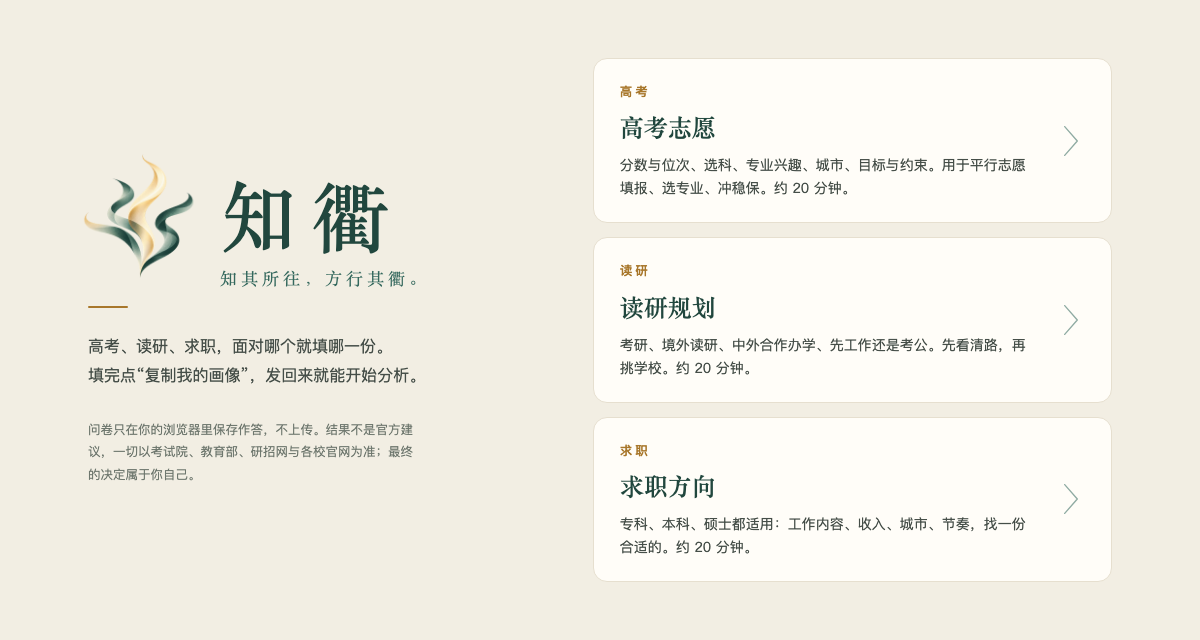
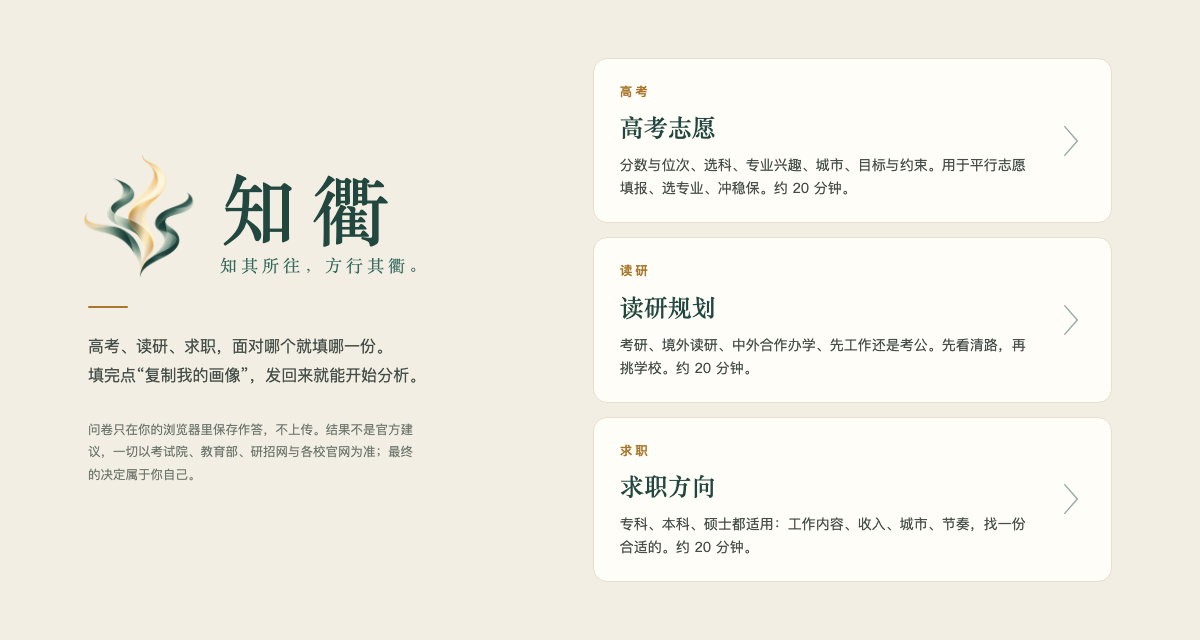
Entry page: smaller downward shift, tighter name-motto gap

Changed region(s): [[0.185, 0.2812, 0.3392, 0.4688]]

diff --git a/assets/questionnaire.css b/assets/questionnaire.css
@@ -160,9 +160,9 @@ textarea{resize:vertical;min-height:84px;}
 .split > .choices{grid-area:choices;}
 .split > .vow{grid-area:vow;align-self:start;}
 .landing .hero{padding:0;overflow:visible;}
-.lockup{display:flex;align-items:center;gap:18px;margin:0 0 19px -10px;}
+.lockup{display:flex;align-items:center;gap:18px;margin:0 0 9px -10px;}
 /* 视觉对齐：logo 墨量偏下、文字块重量集中在上方大字，几何居中时文字显得偏高，整块下移 */
-.wordmark{display:flex;flex-direction:column;gap:12px;position:relative;top:19px;}
+.wordmark{display:flex;flex-direction:column;gap:6px;position:relative;top:9px;}
 .landing .hero-logo{display:block;flex:none;width:124px;height:124px;margin:0;}
 .landing .brand-title{font-size:76px;letter-spacing:16px;line-height:1;margin:0;}
 .landing .motto{font-size:17px;letter-spacing:4px;margin:0;white-space:nowrap;}
@@ -178,8 +178,8 @@ textarea{resize:vertical;min-height:84px;}
 @media (min-width:1600px) and (min-height:900px){
   .landing-wrap{max-width:1360px;}
   .landing .hero-logo{width:148px;height:148px;}
-  .wordmark{top:23px;}
-  .lockup{margin-bottom:23px;}
+  .wordmark{top:11px;gap:8px;}
+  .lockup{margin-bottom:11px;}
   .landing .brand-title{font-size:92px;letter-spacing:20px;}
   .landing .motto{font-size:20px;letter-spacing:5px;}
   .landing .hero .tag{font-size:18px;}
@@ -194,7 +194,7 @@ textarea{resize:vertical;min-height:84px;}
   .split{grid-template-columns:1fr;grid-template-areas:"hero" "choices" "vow";row-gap:28px;}
   .split > .hero,.split > .vow{align-self:auto;}
   .landing .hero{text-align:center;}
-  .lockup{justify-content:center;margin:0 0 19px;}
+  .lockup{justify-content:center;margin:0 0 9px;}
   .brand-rule{margin:22px auto 18px;}
   .wordmark{align-items:flex-start;text-align:left;}
   .landing .vow{margin:20px auto 0;}
@@ -203,10 +203,10 @@ textarea{resize:vertical;min-height:84px;}
   .landing-wrap{padding:40px 16px 32px;}
   .landing .hero-logo{width:76px;height:76px;}
   .lockup{gap:12px;}
-  .wordmark{top:11px;}
-  .lockup{margin-bottom:11px;}
+  .wordmark{top:5px;}
+  .lockup{margin-bottom:5px;}
   .landing .motto{font-size:15px;letter-spacing:3px;}
-  .wordmark{gap:8px;}
+  .wordmark{gap:4px;}
   .landing .brand-title{font-size:46px;letter-spacing:10px;padding-left:0;}
   .landing .hero .tag{font-size:15px;}
   .landing .choice{column-gap:12px;padding:20px 16px 20px 20px;}

diff --git a/gaokao.html b/gaokao.html
@@ -6,7 +6,7 @@
 <title>高考志愿 · 自我盘点</title>
 <script src="https://cdn.jsdelivr.net/npm/lunar-javascript@1.7.7/lunar.js" defer></script>
 <link rel="icon" type="image/png" href="assets/logo-192.png">
-<link rel="stylesheet" href="assets/questionnaire.css?v=20261019o">
+<link rel="stylesheet" href="assets/questionnaire.css?v=20261019p">
 </head>
 <body data-profile-kind="gaokao">
 
@@ -907,8 +907,8 @@
   </div>
 </div>
 
-<script src="assets/profile-recipient.js?v=20261019o"></script>
-<script src="assets/questionnaire.js?v=20261019o"></script>
+<script src="assets/profile-recipient.js?v=20261019p"></script>
+<script src="assets/questionnaire.js?v=20261019p"></script>
 <script>
   function updateBaziPreview(){
     var el=document.getElementById('baziPreview'); if(!el) return;

diff --git a/career.html b/career.html
@@ -6,7 +6,7 @@
 <title>求职 · 自我盘点</title>
 <script src="https://cdn.jsdelivr.net/npm/lunar-javascript@1.7.7/lunar.js" defer></script>
 <link rel="icon" type="image/png" href="assets/logo-192.png">
-<link rel="stylesheet" href="assets/questionnaire.css?v=20261019o">
+<link rel="stylesheet" href="assets/questionnaire.css?v=20261019p">
 </head>
 <body data-profile-kind="career">
 
@@ -818,8 +818,8 @@
   </div>
 </div>
 
-<script src="assets/profile-recipient.js?v=20261019o"></script>
-<script src="assets/questionnaire.js?v=20261019o"></script>
+<script src="assets/profile-recipient.js?v=20261019p"></script>
+<script src="assets/questionnaire.js?v=20261019p"></script>
 <script>
   function updateBaziPreview(){
     var el=document.getElementById('baziPreview'); if(!el) return;

diff --git a/grad.html b/grad.html
@@ -6,7 +6,7 @@
 <title>读研 · 自我盘点</title>
 <script src="https://cdn.jsdelivr.net/npm/lunar-javascript@1.7.7/lunar.js" defer></script>
 <link rel="icon" type="image/png" href="assets/logo-192.png">
-<link rel="stylesheet" href="assets/questionnaire.css?v=20261019o">
+<link rel="stylesheet" href="assets/questionnaire.css?v=20261019p">
 </head>
 <body data-profile-kind="grad">
 
@@ -899,8 +899,8 @@
   </div>
 </div>
 
-<script src="assets/profile-recipient.js?v=20261019o"></script>
-<script src="assets/questionnaire.js?v=20261019o"></script>
+<script src="assets/profile-recipient.js?v=20261019p"></script>
+<script src="assets/questionnaire.js?v=20261019p"></script>
 <script>
   function updateBaziPreview(){
     var el=document.getElementById('baziPreview'); if(!el) return;

diff --git a/index.html b/index.html
@@ -5,7 +5,7 @@
 <meta name="viewport" content="width=device-width, initial-scale=1.0">
 <title>知衢 · 升学自我盘点</title>
 <link rel="icon" type="image/png" href="assets/logo-192.png">
-<link rel="stylesheet" href="assets/questionnaire.css?v=20261019o">
+<link rel="stylesheet" href="assets/questionnaire.css?v=20261019p">
 </head>
 <body class="landing">
 
